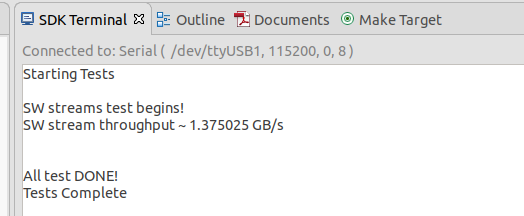
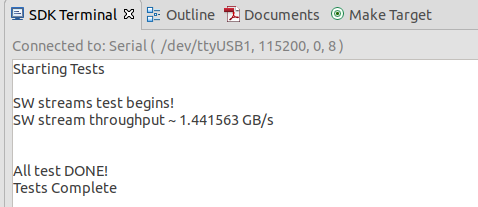
update table for throughput

Changed region(s): [[0.0, 0.0, 1.0, 1.0]]

diff --git a/README.md b/README.md
@@ -161,7 +161,17 @@ You should see the HW throughput between
 ![](./images/hw_thp.png)
 
 
-
+7. The data transimission size may affect the throughput. The table bellow shows how the throughput changes with various transfer sizes.
+| #Transfer Size | #SW stream | #HW Stream |
+|:--------------:|:----------:|:----------:|
+|512\*64bits     |0.73 GB/s   |0.38 GB/s   |
+|1024\*64bits    |0.88 GB/s   |0.52 GB/s   |
+|1536\*64bits    |0.93 GB/s   |0.57 GB/s   |
+|2048\*64bits    |0.97 GB/s   |0.59 GB/s   |
+|5120\*64bits    |1.08 GB/s   |0.75 GB/s   |
+|10240\*64bits   |1.24 GB/s   |1.01 GB/s   |
+|102400\*64bits  |1.49 GB/s   |1.54 GB/s   |
+|1024000\*64bits |1.44 GB/s   |1.63 GB/s   |
 
 
 
